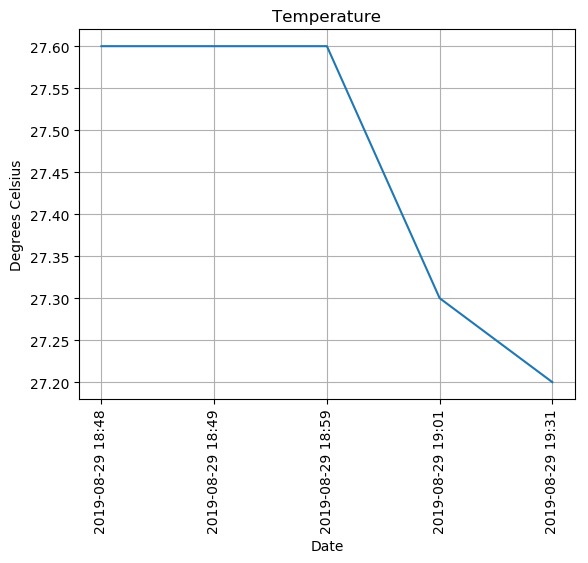
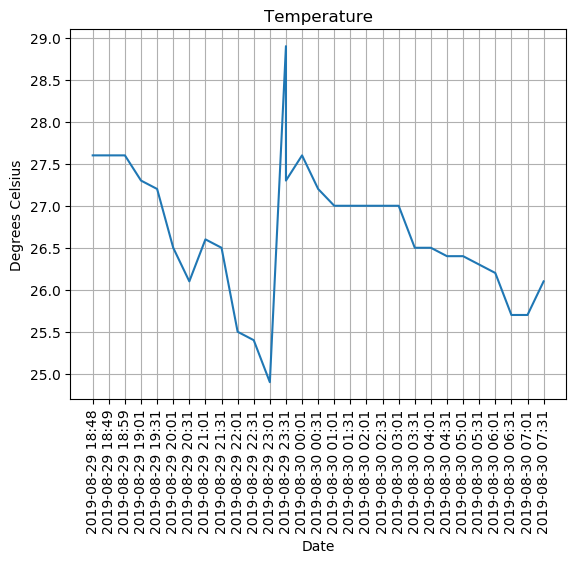
2019-08-30 13:17

Changed region(s): [[0.0, 0.0, 0.9948, 0.9964], [0.0, 0.3925, 0.0311, 0.4227], [0.0, 0.3321, 0.0311, 0.3623]]

diff --git a/monitor.py b/monitor.py
@@ -25,7 +25,7 @@ humidityImageFileName = '/share/raspiEyes/humidities.png'
 captureImageFileName = '/share/raspiEyes/capture.jpg'
 gitRepoPath = '/share/raspiEyes/'
 gitCommitMessage = f'{now.strftime("%Y-%m-%d %H:%M")}'
-maxDataItems = 5
+maxDataItems = 30
 
 # pir = MotionSensor(4)
 if cameraCaptureIsOn:
@@ -93,12 +93,6 @@ for e in humidityContent:
 		i = i + 1
 
 #print(humidityDataList)
-
-humidityTimeList = []
-humidityDataList = []
-for e in humidityContent:
-	humidityTimeList.append(e.split(',')[0])
-	humidityDataList.append(e.split(',')[1])
 
 plt.plot(humidityTimeList, humidityDataList)
 plt.ylabel('Humidity Percentage')
